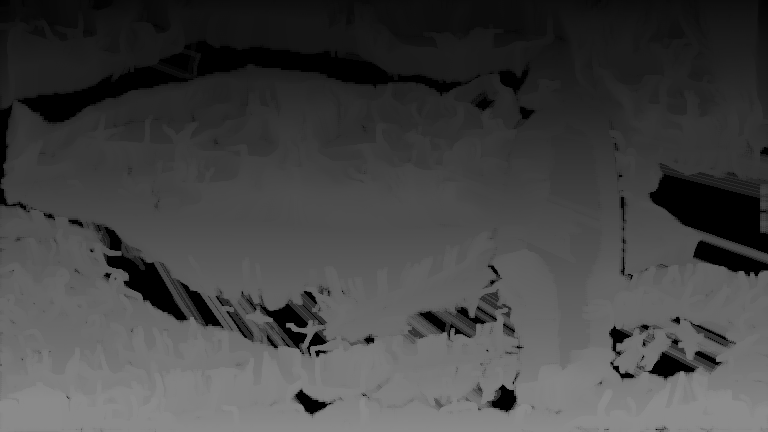
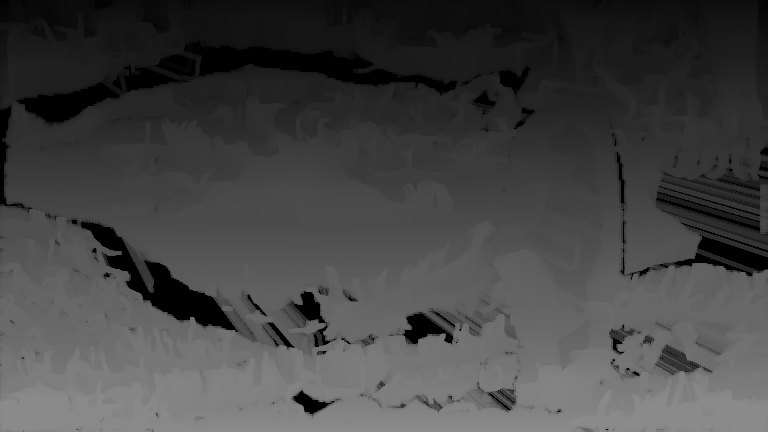
Implemented Blinn-Phong lighting

diff --git a/src/main.cpp b/src/main.cpp
@@ -4,15 +4,14 @@
 #include <Eigen/Dense>
 
 #include "paint.hpp"
+#include "shader.hpp"
 
 using namespace std;
 using namespace Eigen;
 
 int main(int argc, const char **argv) {
-    // Name of the input file, paint file (output) and the height file (output)
-    std::string input_file;
-    std::string paint_file;
-    std::string height_file;
+    // Name of the input file, shade file (final output), paint file (output),and the height file (output)
+    std::string input_file, shade_file, paint_file, height_file;
     // Path to the input and output image directories
     std::string input_path = "../imgs/";
     std::string paint_path = "../paint/";
@@ -33,6 +32,7 @@ int main(int argc, const char **argv) {
         return 1;
     }
     paint_file = "paint-" + input_file;
+    shade_file = "shade-" + input_file;
     height_file = "height-" + input_file;
 
     // Load input image with colour
@@ -52,6 +52,17 @@ int main(int argc, const char **argv) {
     GrayImage *output_height_map;
     std::tie<RGBImage*, GrayImage*>(output_image, output_height_map) = paint.paint();
 
+    // Shade the output image
+    BlinnPhongShader shader = BlinnPhongShader();
+    Eigen::Vector3f view_pos = Eigen::Vector3f(input_image.cols / 2, input_image.rows / 2, 5);
+    Eigen::Vector3f light_pos = Eigen::Vector3f(input_image.cols / 2, input_image.rows / 2, 5);
+    RGBImage *shaded_image = paint.apply_lighting(output_image, output_height_map, &shader, view_pos, light_pos);
+
+    // Save the shaded image
+    cv::Mat *cv_output_shaded_image = shaded_image->to_cv_mat();
+    cv::imwrite(paint_path + shade_file, *cv_output_shaded_image);
+    cout << "Shaded image saved to: " << paint_path + shade_file << std::endl;
+
     // Save the painted image
     cv::Mat *cv_output_image = output_image->to_cv_mat();
     cv::imwrite(paint_path + paint_file, *cv_output_image);
@@ -65,8 +76,12 @@ int main(int argc, const char **argv) {
     // Free memory
     delete output_image;
     delete output_height_map;
+
     delete cv_output_image;
     delete cv_output_height_map;
+    
+    delete shaded_image;
+    delete cv_output_shaded_image;
 
     return 0;
 }

diff --git a/src/paint.cpp b/src/paint.cpp
@@ -2,6 +2,7 @@
 
 #include "paint.hpp"
 #include "image.hpp"
+#include "shader.hpp"
 #include "kernel.hpp"
 #include "stroke.hpp"
 #include "parameters.hpp"
@@ -69,6 +70,31 @@ std::tuple<RGBImage*, GrayImage*> Paint::paint() {
         delete ref_image;
     }
     return std::tuple<RGBImage*, GrayImage*>(canvas, height_map);
+}
+
+RGBImage *Paint::apply_lighting(RGBImage *image, GrayImage *height_map, Shader *shader, Eigen::Vector3f view_pos, Eigen::Vector3f light_pos) {
+    // Sobel kernels used to compute image gradient
+    HorizontalSobelKernel sobel_x = HorizontalSobelKernel::get_instance();
+    VerticalSobelKernel sobel_y = VerticalSobelKernel::get_instance();
+    RGBImage *normals = height_map->compute_normals(&sobel_x, &sobel_y);
+
+    Eigen::Vector3f pos;
+    Eigen::Vector3f new_colour;
+
+    RGBMatrix *shaded_image = new RGBMatrix(this->height, this->width);
+
+    for (int y = 0; y < this->height; y++) {
+        for (int x = 0; x < this->width; x++) {
+            pos = Eigen::Vector3f(x, y, 0);
+            new_colour = shader->shade(image->get_pixel(x, y), pos, light_pos, view_pos, normals->get_pixel(x, y));
+            ImageUtil::set_pixel(shaded_image, x, y, new_colour);
+        }
+    }
+
+    // Free memory
+    delete normals;
+    
+    return new RGBImage(this->width, this->height, shaded_image);
 }
 
 void Paint::paint_layer(RGBImage *ref_image, RGBImage *canvas, GrayImage *height_map, int radius) {

diff --git a/src/shader.cpp b/src/shader.cpp
@@ -1,0 +1,37 @@
+#include "shader.hpp"
+
+Eigen::Vector3f BlinnPhongShader::shade(Eigen::Vector3f colour, Eigen::Vector3f pos, Eigen::Vector3f light_pos, Eigen::Vector3f view_pos, Eigen::Vector3f normal) {
+    Eigen::Vector3f ka = Eigen::Vector3f(0.2f, 0.2f, 0.2f);
+    Eigen::Vector3f kd = colour / 255.0f;
+    Eigen::Vector3f ks = Eigen::Vector3f(2.5f, 2.5f, 2.5f);
+
+    Eigen::Vector3f amb_intensity = Eigen::Vector3f(100.0f, 100.0f, 100.0f);
+    Eigen::Vector3f intensity = Eigen::Vector3f(100.0f, 100.0f, 100.0f);
+
+    Eigen::Vector3f output_colour = Eigen::Vector3f::Zero();
+
+    // Apply ambient lighting
+    output_colour += ka.cwiseProduct(amb_intensity);
+
+    Eigen::Vector3f v, l, h;
+
+    // View direction
+    v = (view_pos - pos).normalized();
+
+    // Light direction 
+    l = (light_pos - pos).normalized();
+
+    // Half-vector 
+    h = (v + l).normalized();
+
+    // Diffuse lighting. Fall-off not considered
+    float N_dot_l = std::max(0.0f, normal.dot(h));
+    output_colour += kd.cwiseProduct(intensity) * N_dot_l;
+
+    // Specular lighting. Fall-off not considered
+    float N_dot_h = std::max(0.0f, normal.dot(h));
+    float p = 150.0f;
+    output_colour += ks.cwiseProduct(intensity) * std::pow(N_dot_h, p);
+
+    return output_colour;
+}

diff --git a/src/image.cpp b/src/image.cpp
@@ -89,6 +89,27 @@ std::tuple<Eigen::Vector2f, float> GrayImage::compute_gradient(int x, int y, Hor
     return std::tuple<Eigen::Vector2f, float>(grad, grad_mag);
 }
 
+RGBImage *GrayImage::compute_normals(HorizontalSobelKernel *sobel_x, VerticalSobelKernel *sobel_y) {
+    Eigen::Vector3f normal;
+    Eigen::Vector2f grad;
+    float grad_mag;
+
+    RGBMatrix *normals = new RGBMatrix(this->height, this->width);
+
+    for (int y = 0; y < this->height; y++) {
+        for (int x = 0; x < this->width; x++) {
+            // Get the unit vector of gradient (gx, gy) and gradient magnitutde (unused)
+            std::tie<Eigen::Vector2f, float>(grad, grad_mag) = this->compute_gradient(x, y, sobel_x, sobel_y);
+
+            normal = Eigen::Vector3f(-grad.x(), -grad.y(), 1).normalized();
+
+            ImageUtil::set_pixel(normals, x, y, normal);
+        }
+    }
+    
+    return new RGBImage(this->width, this->height, normals);
+}
+
 RGBImage::RGBImage(int width, int height, Eigen::Vector3f colour) {
     this->width = width;
     this->height = height;

diff --git a/include/image.hpp b/include/image.hpp
@@ -26,6 +26,8 @@ namespace ImageUtil {
     float alpha_blend(float h1, float h2, float alpha);
 }
 
+class RGBImage;
+
 class GrayImage {
     private:
         // Dimensions of the image
@@ -100,6 +102,8 @@ class GrayImage {
          * @return: Tuple containing the gradient (gx, gy) and the magnitude of the gradient
         */
         std::tuple<Eigen::Vector2f, float> compute_gradient(int x, int y, HorizontalSobelKernel *sobel_x, VerticalSobelKernel *sobel_y);
+
+        RGBImage *compute_normals(HorizontalSobelKernel *sobel_x, VerticalSobelKernel *sobel_y);
 };
 
 class RGBImage {

diff --git a/include/shader.hpp b/include/shader.hpp
@@ -1,0 +1,19 @@
+#pragma once 
+
+#include <Eigen/Eigen>
+
+using namespace Eigen;
+
+class Shader {
+    public:
+        virtual Eigen::Vector3f shade(Eigen::Vector3f colour, Eigen::Vector3f pos, Eigen::Vector3f light_pos, Eigen::Vector3f view_pos, Eigen::Vector3f normal) = 0;
+
+        virtual ~Shader() {}
+};
+
+class BlinnPhongShader : public Shader {
+    public:
+        BlinnPhongShader() = default;
+
+        Eigen::Vector3f shade(Eigen::Vector3f colour, Eigen::Vector3f pos, Eigen::Vector3f light_pos, Eigen::Vector3f view_pos, Eigen::Vector3f normal);
+};

diff --git a/include/paint.hpp b/include/paint.hpp
@@ -3,6 +3,7 @@
 #include <Eigen/Eigen>
 
 #include "image.hpp"
+#include "shader.hpp"
 
 using namespace Eigen;
 
@@ -71,4 +72,6 @@ class Paint {
         }
 
         std::tuple<RGBImage*, GrayImage*> paint();
+
+        RGBImage *apply_lighting(RGBImage *image, GrayImage *height_map, Shader *shader, Eigen::Vector3f view_pos, Eigen::Vector3f light_pos);
 };
